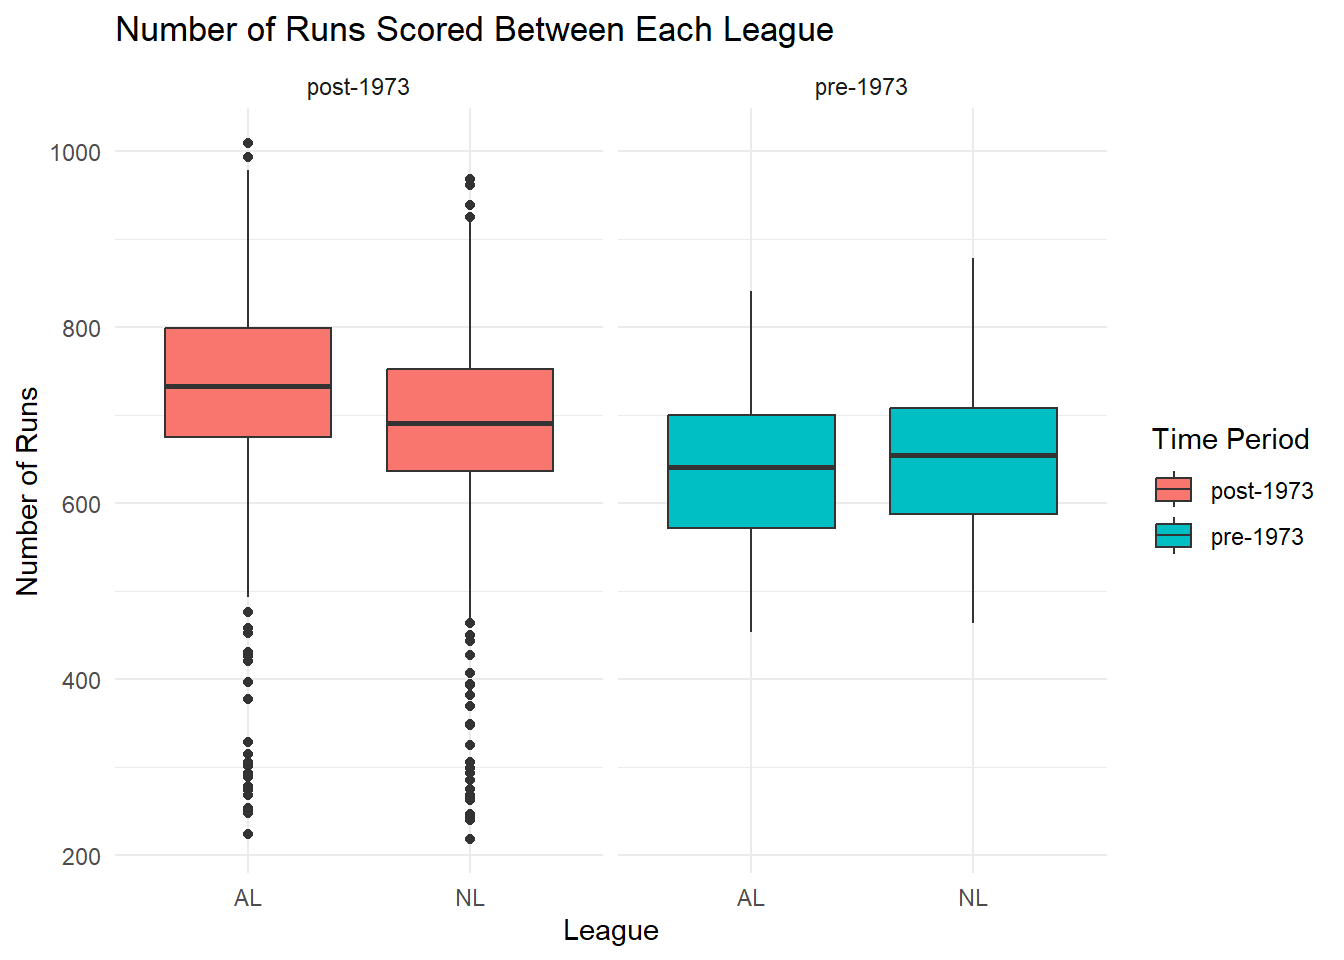
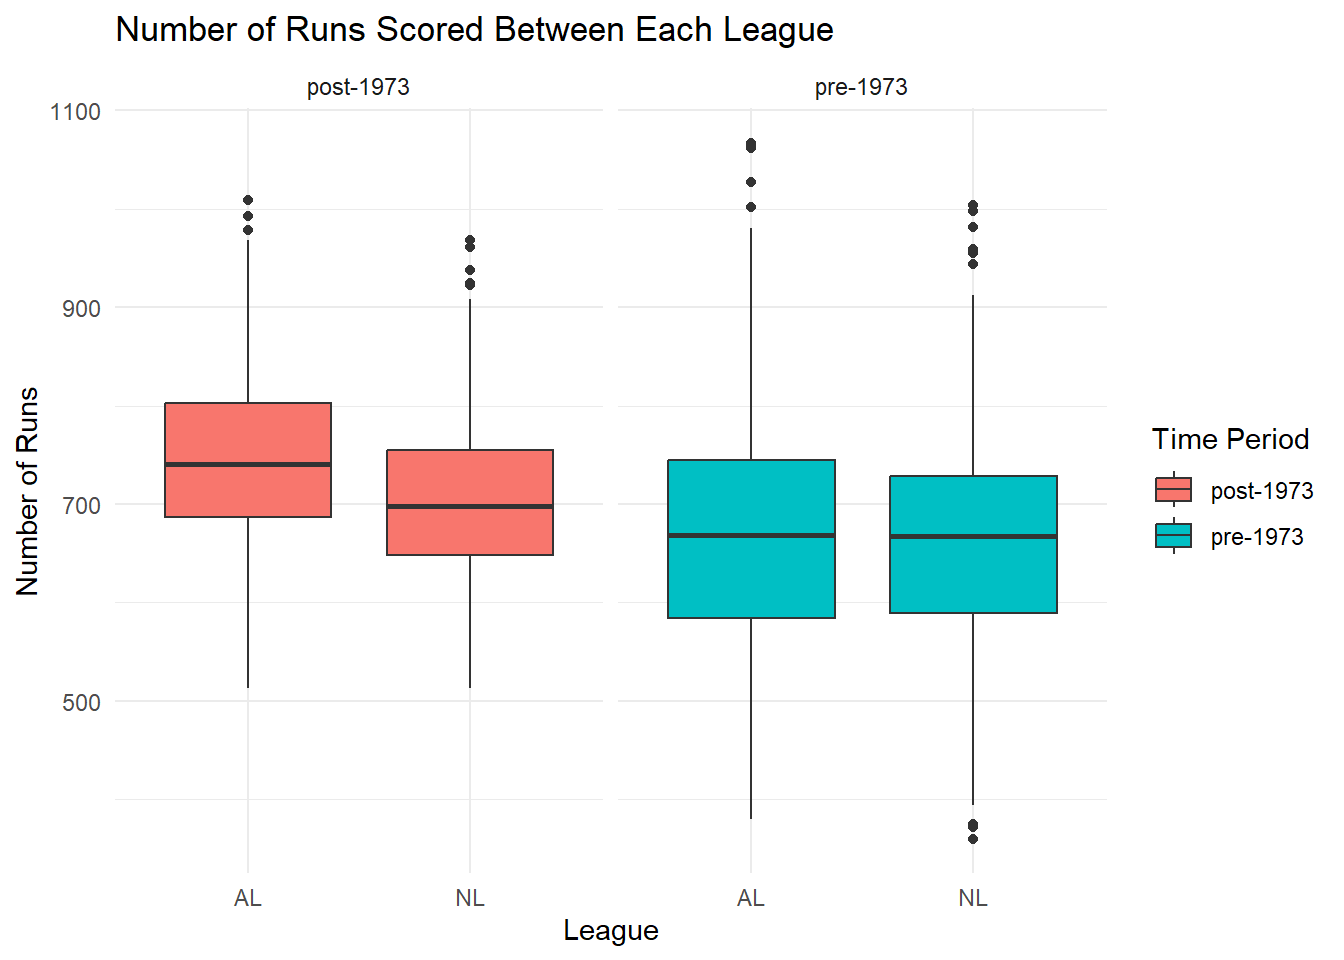
Blog Post Fixed

diff --git a/docs/posts/Final Project/Index.html b/docs/posts/Final Project/Index.html
@@ -286,9 +286,9 @@ dbl (33): year, rank, games_played, home_games, wins, losses, runs_scored, a...
 </div>
 <p><em>In this graph, number of runs scored started to increase in 1910s. The trend line shows that after 1920 the slope of the line did increase and runs scored overall continued to increases until leveling off. This shows the effects of the rule change where not allowing foregien substances on the baseball helped teams score more runs because it was easier for batters to hit the ball.</em></p>
 <p>##Rule Change #2: The Introduction of a Designated Hitter</p>
-<p><em>One pivotal change that occurred in 1973 was when the American League introduced a designated hitter. Pitchers were generally not very good hitters so to help the offense and make the more games interesting for fans, a designated hitter (DH) bats in place of the pitcher. The National League did not make this change therefore created a huge difference between the leagues. Even though both leagues will still have the same amount of hitters/players the AL had more runs and more home runs than the NL because a better hitter in the AL can hit instead of the pitcher fir the NL.</em></p>
+<p><em>One pivotal change that occurred in 1973 was when the American League introduced a designated hitter. Pitchers were generally not very good hitters so to help the offense and make the more games interesting for fans, a designated hitter (DH) bats in place of the pitcher. The National League did not make this change therefore created a huge difference between the leagues. Even though both leagues will still have the same amount of hitters/players the AL had more runs and more home runs than the NL because a better hitter in the AL can hit instead of the pitcher fir the NL. The year 1994, 1981, and 2020 data has been removed since in those years there were significantly less games played because of strikes and the pandemic. They were removed because since all the years are of interest in this plot, they could affect the data.</em></p>
 <div class="cell">
-<div class="sourceCode cell-code" id="cb10"><pre class="sourceCode r code-with-copy"><code class="sourceCode r"><span id="cb10-1"><a href="#cb10-1" aria-hidden="true" tabindex="-1"></a>designated_hitter <span class="ot">&lt;-</span> Baseball <span class="sc">|&gt;</span> <span class="fu">filter</span>(year <span class="sc">&gt;=</span> <span class="st">"1961"</span>) <span class="sc">|&gt;</span></span>
+<div class="sourceCode cell-code" id="cb10"><pre class="sourceCode r code-with-copy"><code class="sourceCode r"><span id="cb10-1"><a href="#cb10-1" aria-hidden="true" tabindex="-1"></a>designated_hitter <span class="ot">&lt;-</span> Baseball <span class="sc">|&gt;</span> <span class="fu">filter</span>(<span class="sc">!</span>year <span class="sc">%in%</span> <span class="fu">c</span>(<span class="dv">1981</span>, <span class="dv">1994</span>, <span class="dv">2020</span>)) <span class="sc">|&gt;</span></span>
 <span id="cb10-2"><a href="#cb10-2" aria-hidden="true" tabindex="-1"></a>  <span class="fu">mutate</span>(<span class="at">period =</span> <span class="fu">if_else</span>(year <span class="sc">&lt;</span> <span class="dv">1973</span>, <span class="st">"pre-1973"</span>, <span class="st">"post-1973"</span>))</span>
 <span id="cb10-3"><a href="#cb10-3" aria-hidden="true" tabindex="-1"></a></span>
 <span id="cb10-4"><a href="#cb10-4" aria-hidden="true" tabindex="-1"></a><span class="fu">ggplot</span>(<span class="at">data =</span> designated_hitter, <span class="fu">aes</span>(<span class="at">x =</span> league_id, <span class="at">y =</span> runs_scored, <span class="at">fill =</span> period)) <span class="sc">+</span></span>
@@ -373,8 +373,8 @@ Attaching package: 'plotly'</code></pre>
 </div>
 <div class="sourceCode cell-code" id="cb18"><pre class="sourceCode r code-with-copy"><code class="sourceCode r"><span id="cb18-1"><a href="#cb18-1" aria-hidden="true" tabindex="-1"></a><span class="fu">ggplotly</span>(baseballplot, <span class="at">tooltip =</span> <span class="st">"text"</span>)</span></code><button title="Copy to Clipboard" class="code-copy-button"><i class="bi"></i></button></pre></div>
 <div class="cell-output-display">
-<div class="plotly html-widget html-fill-item" id="htmlwidget-85f9ab6e9ec151652c60" style="width:100%;height:464px;"></div>
-<script type="application/json" data-for="htmlwidget-85f9ab6e9ec151652c60">{"x":{"data":[{"x":[1903,1904,1905,1906,1907,1908,1909,1910,1911,1912,1913,1914,1915,1916,1917,1918,1919,1920,1921,1922,1923,1924,1925,1926,1927,1928,1929,1930,1931,1932,1933,1934,1935,1936,1937,1938,1939,1940,1941,1942,1943,1944,1945,1946,1947,1948,1949,1950,1951,1952,1953,1954,1955,1956,1957,1958,1959,1960,1961,1962,1963,1964,1965,1966,1967,1968,1969,1970,1971,1972,1973,1974,1975,1976,1977,1978,1979,1980,1981,1982,1983,1984,1985,1986,1987,1988,1989,1990,1991,1992,1993,1994,1995,1996,1997,1998,1999,2000,2001,2002,2003,2004,2005,2006,2007,2008,2009,2010,2011,2012,2013,2014,2015,2016,2017,2018,2019,2020],"y":[7966,9303,9569,9098,8696,9110,9355,9698,9885,9786,9459,9838,9586,9525,8641,5875,6871,7269,6962,6935,7007,6624,6689,6815,6895,7094,7038,7930,7908,7858,7437,8429,8016,8233,8995,8342,8518,9056,8836,8334,8565,8183,8050,9702,9162,9035,8956,9565,9341,10394,10218,10215,10824,11507,11964,12229,12606,12817,14952,17567,18773,19212,19283,18805,19413,19143,22473,22374,20956,20718,20358,19495,19280,18745,21722,20058,20035,20212,13237,21221,21716,22500,22451,24706,25099,23355,23650,23853,24390,23538,26310,19766,25425,29308,29937,31893,31119,31356,32404,31394,30801,31828,30644,31655,32189,32884,33591,34306,34488,36426,36710,37441,37446,38982,40104,41207,42823,15586],"text":["Season: 1903 Strikeouts: 7966","Season: 1904 Strikeouts: 9303","Season: 1905 Strikeouts: 9569","Season: 1906 Strikeouts: 9098","Season: 1907 Strikeouts: 8696","Season: 1908 Strikeouts: 9110","Season: 1909 Strikeouts: 9355","Season: 1910 Strikeouts: 9698","Season: 1911 Strikeouts: 9885","Season: 1912 Strikeouts: 9786","Season: 1913 Strikeouts: 9459","Season: 1914 Strikeouts: 9838","Season: 1915 Strikeouts: 9586","Season: 1916 Strikeouts: 9525","Season: 1917 Strikeouts: 8641","Season: 1918 Strikeouts: 5875","Season: 1919 Strikeouts: 6871","Season: 1920 Strikeouts: 7269","Season: 1921 Strikeouts: 6962","Season: 1922 Strikeouts: 6935","Season: 1923 Strikeouts: 7007","Season: 1924 Strikeouts: 6624","Season: 1925 Strikeouts: 6689","Season: 1926 Strikeouts: 6815","Season: 1927 Strikeouts: 6895","Season: 1928 Strikeouts: 7094","Season: 1929 Strikeouts: 7038","Season: 1930 Strikeouts: 7930","Season: 1931 Strikeouts: 7908","Season: 1932 Strikeouts: 7858","Season: 1933 Strikeouts: 7437","Season: 1934 Strikeouts: 8429","Season: 1935 Strikeouts: 8016","Season: 1936 Strikeouts: 8233","Season: 1937 Strikeouts: 8995","Season: 1938 Strikeouts: 8342","Season: 1939 Strikeouts: 8518","Season: 1940 Strikeouts: 9056","Season: 1941 Strikeouts: 8836","Season: 1942 Strikeouts: 8334","Season: 1943 Strikeouts: 8565","Season: 1944 Strikeouts: 8183","Season: 1945 Strikeouts: 8050","Season: 1946 Strikeouts: 9702","Season: 1947 Strikeouts: 9162","Season: 1948 Strikeouts: 9035","Season: 1949 Strikeouts: 8956","Season: 1950 Strikeouts: 9565","Season: 1951 Strikeouts: 9341","Season: 1952 Strikeouts: 10394","Season: 1953 Strikeouts: 10218","Season: 1954 Strikeouts: 10215","Season: 1955 Strikeouts: 10824","Season: 1956 Strikeouts: 11507","Season: 1957 Strikeouts: 11964","Season: 1958 Strikeouts: 12229","Season: 1959 Strikeouts: 12606","Season: 1960 Strikeouts: 12817","Season: 1961 Strikeouts: 14952","Season: 1962 Strikeouts: 17567","Season: 1963 Strikeouts: 18773","Season: 1964 Strikeouts: 19212","Season: 1965 Strikeouts: 19283","Season: 1966 Strikeouts: 18805","Season: 1967 Strikeouts: 19413","Season: 1968 Strikeouts: 19143","Season: 1969 Strikeouts: 22473","Season: 1970 Strikeouts: 22374","Season: 1971 Strikeouts: 20956","Season: 1972 Strikeouts: 20718","Season: 1973 Strikeouts: 20358","Season: 1974 Strikeouts: 19495","Season: 1975 Strikeouts: 19280","Season: 1976 Strikeouts: 18745","Season: 1977 Strikeouts: 21722","Season: 1978 Strikeouts: 20058","Season: 1979 Strikeouts: 20035","Season: 1980 Strikeouts: 20212","Season: 1981 Strikeouts: 13237","Season: 1982 Strikeouts: 21221","Season: 1983 Strikeouts: 21716","Season: 1984 Strikeouts: 22500","Season: 1985 Strikeouts: 22451","Season: 1986 Strikeouts: 24706","Season: 1987 Strikeouts: 25099","Season: 1988 Strikeouts: 23355","Season: 1989 Strikeouts: 23650","Season: 1990 Strikeouts: 23853","Season: 1991 Strikeouts: 24390","Season: 1992 Strikeouts: 23538","Season: 1993 Strikeouts: 26310","Season: 1994 Strikeouts: 19766","Season: 1995 Strikeouts: 25425","Season: 1996 Strikeouts: 29308","Season: 1997 Strikeouts: 29937","Season: 1998 Strikeouts: 31893","Season: 1999 Strikeouts: 31119","Season: 2000 Strikeouts: 31356","Season: 2001 Strikeouts: 32404","Season: 2002 Strikeouts: 31394","Season: 2003 Strikeouts: 30801","Season: 2004 Strikeouts: 31828","Season: 2005 Strikeouts: 30644","Season: 2006 Strikeouts: 31655","Season: 2007 Strikeouts: 32189","Season: 2008 Strikeouts: 32884","Season: 2009 Strikeouts: 33591","Season: 2010 Strikeouts: 34306","Season: 2011 Strikeouts: 34488","Season: 2012 Strikeouts: 36426","Season: 2013 Strikeouts: 36710","Season: 2014 Strikeouts: 37441","Season: 2015 Strikeouts: 37446","Season: 2016 Strikeouts: 38982","Season: 2017 Strikeouts: 40104","Season: 2018 Strikeouts: 41207","Season: 2019 Strikeouts: 42823","Season: 2020 Strikeouts: 15586"],"type":"scatter","mode":"markers","marker":{"autocolorscale":false,"color":"rgba(0,0,0,1)","opacity":1,"size":5.6692913385826778,"symbol":"circle","line":{"width":1.8897637795275593,"color":"rgba(0,0,0,1)"}},"hoveron":"points","showlegend":false,"xaxis":"x","yaxis":"y","hoverinfo":"text","frame":null},{"x":[1963,1963],"y":[-2141.1500000000001,44964.150000000001],"text":"","type":"scatter","mode":"lines","line":{"width":1.8897637795275593,"color":"rgba(0,0,0,1)","dash":"solid"},"hoveron":"points","showlegend":false,"xaxis":"x","yaxis":"y","hoverinfo":"text","frame":null},{"x":[1969,1969],"y":[-2141.1500000000001,44964.150000000001],"text":"","type":"scatter","mode":"lines","line":{"width":1.8897637795275593,"color":"rgba(0,0,0,1)","dash":"solid"},"hoveron":"points","showlegend":false,"xaxis":"x","yaxis":"y","hoverinfo":"text","frame":null}],"layout":{"margin":{"t":40.840182648401829,"r":7.3059360730593621,"b":37.260273972602747,"l":54.794520547945211},"paper_bgcolor":"rgba(255,255,255,1)","font":{"color":"rgba(0,0,0,1)","family":"","size":14.611872146118724},"title":{"text":"Strikeouts by Pitchers per Year","font":{"color":"rgba(0,0,0,1)","family":"","size":17.534246575342465},"x":0,"xref":"paper"},"xaxis":{"domain":[0,1],"automargin":true,"type":"linear","autorange":false,"range":[1897.1500000000001,2025.8499999999999],"tickmode":"array","ticktext":["1900","1925","1950","1975","2000","2025"],"tickvals":[1900,1925,1950,1975,2000,2025],"categoryorder":"array","categoryarray":["1900","1925","1950","1975","2000","2025"],"nticks":null,"ticks":"","tickcolor":null,"ticklen":3.6529680365296811,"tickwidth":0,"showticklabels":true,"tickfont":{"color":"rgba(77,77,77,1)","family":"","size":11.68949771689498},"tickangle":-0,"showline":false,"linecolor":null,"linewidth":0,"showgrid":true,"gridcolor":"rgba(235,235,235,1)","gridwidth":0.66417600664176002,"zeroline":false,"anchor":"y","title":{"text":"Year","font":{"color":"rgba(0,0,0,1)","family":"","size":14.611872146118724}},"hoverformat":".2f"},"yaxis":{"domain":[0,1],"automargin":true,"type":"linear","autorange":false,"range":[-2141.1500000000001,44964.150000000001],"tickmode":"array","ticktext":["0","10000","20000","30000","40000"],"tickvals":[0,10000,20000,30000,40000],"categoryorder":"array","categoryarray":["0","10000","20000","30000","40000"],"nticks":null,"ticks":"","tickcolor":null,"ticklen":3.6529680365296811,"tickwidth":0,"showticklabels":true,"tickfont":{"color":"rgba(77,77,77,1)","family":"","size":11.68949771689498},"tickangle":-0,"showline":false,"linecolor":null,"linewidth":0,"showgrid":true,"gridcolor":"rgba(235,235,235,1)","gridwidth":0.66417600664176002,"zeroline":false,"anchor":"x","title":{"text":"Number of Strikeouts","font":{"color":"rgba(0,0,0,1)","family":"","size":14.611872146118724}},"hoverformat":".2f"},"shapes":[],"showlegend":false,"legend":{"bgcolor":null,"bordercolor":null,"borderwidth":0,"font":{"color":"rgba(0,0,0,1)","family":"","size":11.68949771689498}},"hovermode":"closest","barmode":"relative"},"config":{"doubleClick":"reset","modeBarButtonsToAdd":["hoverclosest","hovercompare"],"showSendToCloud":false},"source":"A","attrs":{"397c542efdb":{"x":{},"y":{},"text":{},"type":"scatter"},"397c76c62c63":{"xintercept":{}},"397c63df2e22":{"xintercept":{}}},"cur_data":"397c542efdb","visdat":{"397c542efdb":["function (y) ","x"],"397c76c62c63":["function (y) ","x"],"397c63df2e22":["function (y) ","x"]},"highlight":{"on":"plotly_click","persistent":false,"dynamic":false,"selectize":false,"opacityDim":0.20000000000000001,"selected":{"opacity":1},"debounce":0},"shinyEvents":["plotly_hover","plotly_click","plotly_selected","plotly_relayout","plotly_brushed","plotly_brushing","plotly_clickannotation","plotly_doubleclick","plotly_deselect","plotly_afterplot","plotly_sunburstclick"],"base_url":"https://plot.ly"},"evals":[],"jsHooks":[]}</script>
+<div class="plotly html-widget html-fill-item" id="htmlwidget-49308d2a057f7e8a3bcf" style="width:100%;height:464px;"></div>
+<script type="application/json" data-for="htmlwidget-49308d2a057f7e8a3bcf">{"x":{"data":[{"x":[1903,1904,1905,1906,1907,1908,1909,1910,1911,1912,1913,1914,1915,1916,1917,1918,1919,1920,1921,1922,1923,1924,1925,1926,1927,1928,1929,1930,1931,1932,1933,1934,1935,1936,1937,1938,1939,1940,1941,1942,1943,1944,1945,1946,1947,1948,1949,1950,1951,1952,1953,1954,1955,1956,1957,1958,1959,1960,1961,1962,1963,1964,1965,1966,1967,1968,1969,1970,1971,1972,1973,1974,1975,1976,1977,1978,1979,1980,1981,1982,1983,1984,1985,1986,1987,1988,1989,1990,1991,1992,1993,1994,1995,1996,1997,1998,1999,2000,2001,2002,2003,2004,2005,2006,2007,2008,2009,2010,2011,2012,2013,2014,2015,2016,2017,2018,2019,2020],"y":[7966,9303,9569,9098,8696,9110,9355,9698,9885,9786,9459,9838,9586,9525,8641,5875,6871,7269,6962,6935,7007,6624,6689,6815,6895,7094,7038,7930,7908,7858,7437,8429,8016,8233,8995,8342,8518,9056,8836,8334,8565,8183,8050,9702,9162,9035,8956,9565,9341,10394,10218,10215,10824,11507,11964,12229,12606,12817,14952,17567,18773,19212,19283,18805,19413,19143,22473,22374,20956,20718,20358,19495,19280,18745,21722,20058,20035,20212,13237,21221,21716,22500,22451,24706,25099,23355,23650,23853,24390,23538,26310,19766,25425,29308,29937,31893,31119,31356,32404,31394,30801,31828,30644,31655,32189,32884,33591,34306,34488,36426,36710,37441,37446,38982,40104,41207,42823,15586],"text":["Season: 1903 Strikeouts: 7966","Season: 1904 Strikeouts: 9303","Season: 1905 Strikeouts: 9569","Season: 1906 Strikeouts: 9098","Season: 1907 Strikeouts: 8696","Season: 1908 Strikeouts: 9110","Season: 1909 Strikeouts: 9355","Season: 1910 Strikeouts: 9698","Season: 1911 Strikeouts: 9885","Season: 1912 Strikeouts: 9786","Season: 1913 Strikeouts: 9459","Season: 1914 Strikeouts: 9838","Season: 1915 Strikeouts: 9586","Season: 1916 Strikeouts: 9525","Season: 1917 Strikeouts: 8641","Season: 1918 Strikeouts: 5875","Season: 1919 Strikeouts: 6871","Season: 1920 Strikeouts: 7269","Season: 1921 Strikeouts: 6962","Season: 1922 Strikeouts: 6935","Season: 1923 Strikeouts: 7007","Season: 1924 Strikeouts: 6624","Season: 1925 Strikeouts: 6689","Season: 1926 Strikeouts: 6815","Season: 1927 Strikeouts: 6895","Season: 1928 Strikeouts: 7094","Season: 1929 Strikeouts: 7038","Season: 1930 Strikeouts: 7930","Season: 1931 Strikeouts: 7908","Season: 1932 Strikeouts: 7858","Season: 1933 Strikeouts: 7437","Season: 1934 Strikeouts: 8429","Season: 1935 Strikeouts: 8016","Season: 1936 Strikeouts: 8233","Season: 1937 Strikeouts: 8995","Season: 1938 Strikeouts: 8342","Season: 1939 Strikeouts: 8518","Season: 1940 Strikeouts: 9056","Season: 1941 Strikeouts: 8836","Season: 1942 Strikeouts: 8334","Season: 1943 Strikeouts: 8565","Season: 1944 Strikeouts: 8183","Season: 1945 Strikeouts: 8050","Season: 1946 Strikeouts: 9702","Season: 1947 Strikeouts: 9162","Season: 1948 Strikeouts: 9035","Season: 1949 Strikeouts: 8956","Season: 1950 Strikeouts: 9565","Season: 1951 Strikeouts: 9341","Season: 1952 Strikeouts: 10394","Season: 1953 Strikeouts: 10218","Season: 1954 Strikeouts: 10215","Season: 1955 Strikeouts: 10824","Season: 1956 Strikeouts: 11507","Season: 1957 Strikeouts: 11964","Season: 1958 Strikeouts: 12229","Season: 1959 Strikeouts: 12606","Season: 1960 Strikeouts: 12817","Season: 1961 Strikeouts: 14952","Season: 1962 Strikeouts: 17567","Season: 1963 Strikeouts: 18773","Season: 1964 Strikeouts: 19212","Season: 1965 Strikeouts: 19283","Season: 1966 Strikeouts: 18805","Season: 1967 Strikeouts: 19413","Season: 1968 Strikeouts: 19143","Season: 1969 Strikeouts: 22473","Season: 1970 Strikeouts: 22374","Season: 1971 Strikeouts: 20956","Season: 1972 Strikeouts: 20718","Season: 1973 Strikeouts: 20358","Season: 1974 Strikeouts: 19495","Season: 1975 Strikeouts: 19280","Season: 1976 Strikeouts: 18745","Season: 1977 Strikeouts: 21722","Season: 1978 Strikeouts: 20058","Season: 1979 Strikeouts: 20035","Season: 1980 Strikeouts: 20212","Season: 1981 Strikeouts: 13237","Season: 1982 Strikeouts: 21221","Season: 1983 Strikeouts: 21716","Season: 1984 Strikeouts: 22500","Season: 1985 Strikeouts: 22451","Season: 1986 Strikeouts: 24706","Season: 1987 Strikeouts: 25099","Season: 1988 Strikeouts: 23355","Season: 1989 Strikeouts: 23650","Season: 1990 Strikeouts: 23853","Season: 1991 Strikeouts: 24390","Season: 1992 Strikeouts: 23538","Season: 1993 Strikeouts: 26310","Season: 1994 Strikeouts: 19766","Season: 1995 Strikeouts: 25425","Season: 1996 Strikeouts: 29308","Season: 1997 Strikeouts: 29937","Season: 1998 Strikeouts: 31893","Season: 1999 Strikeouts: 31119","Season: 2000 Strikeouts: 31356","Season: 2001 Strikeouts: 32404","Season: 2002 Strikeouts: 31394","Season: 2003 Strikeouts: 30801","Season: 2004 Strikeouts: 31828","Season: 2005 Strikeouts: 30644","Season: 2006 Strikeouts: 31655","Season: 2007 Strikeouts: 32189","Season: 2008 Strikeouts: 32884","Season: 2009 Strikeouts: 33591","Season: 2010 Strikeouts: 34306","Season: 2011 Strikeouts: 34488","Season: 2012 Strikeouts: 36426","Season: 2013 Strikeouts: 36710","Season: 2014 Strikeouts: 37441","Season: 2015 Strikeouts: 37446","Season: 2016 Strikeouts: 38982","Season: 2017 Strikeouts: 40104","Season: 2018 Strikeouts: 41207","Season: 2019 Strikeouts: 42823","Season: 2020 Strikeouts: 15586"],"type":"scatter","mode":"markers","marker":{"autocolorscale":false,"color":"rgba(0,0,0,1)","opacity":1,"size":5.6692913385826778,"symbol":"circle","line":{"width":1.8897637795275593,"color":"rgba(0,0,0,1)"}},"hoveron":"points","showlegend":false,"xaxis":"x","yaxis":"y","hoverinfo":"text","frame":null},{"x":[1963,1963],"y":[-2141.1500000000001,44964.150000000001],"text":"","type":"scatter","mode":"lines","line":{"width":1.8897637795275593,"color":"rgba(0,0,0,1)","dash":"solid"},"hoveron":"points","showlegend":false,"xaxis":"x","yaxis":"y","hoverinfo":"text","frame":null},{"x":[1969,1969],"y":[-2141.1500000000001,44964.150000000001],"text":"","type":"scatter","mode":"lines","line":{"width":1.8897637795275593,"color":"rgba(0,0,0,1)","dash":"solid"},"hoveron":"points","showlegend":false,"xaxis":"x","yaxis":"y","hoverinfo":"text","frame":null}],"layout":{"margin":{"t":40.840182648401829,"r":7.3059360730593621,"b":37.260273972602747,"l":54.794520547945211},"paper_bgcolor":"rgba(255,255,255,1)","font":{"color":"rgba(0,0,0,1)","family":"","size":14.611872146118724},"title":{"text":"Strikeouts by Pitchers per Year","font":{"color":"rgba(0,0,0,1)","family":"","size":17.534246575342465},"x":0,"xref":"paper"},"xaxis":{"domain":[0,1],"automargin":true,"type":"linear","autorange":false,"range":[1897.1500000000001,2025.8499999999999],"tickmode":"array","ticktext":["1900","1925","1950","1975","2000","2025"],"tickvals":[1900,1925,1950,1975,2000,2025],"categoryorder":"array","categoryarray":["1900","1925","1950","1975","2000","2025"],"nticks":null,"ticks":"","tickcolor":null,"ticklen":3.6529680365296811,"tickwidth":0,"showticklabels":true,"tickfont":{"color":"rgba(77,77,77,1)","family":"","size":11.68949771689498},"tickangle":-0,"showline":false,"linecolor":null,"linewidth":0,"showgrid":true,"gridcolor":"rgba(235,235,235,1)","gridwidth":0.66417600664176002,"zeroline":false,"anchor":"y","title":{"text":"Year","font":{"color":"rgba(0,0,0,1)","family":"","size":14.611872146118724}},"hoverformat":".2f"},"yaxis":{"domain":[0,1],"automargin":true,"type":"linear","autorange":false,"range":[-2141.1500000000001,44964.150000000001],"tickmode":"array","ticktext":["0","10000","20000","30000","40000"],"tickvals":[0,10000,20000,30000,40000],"categoryorder":"array","categoryarray":["0","10000","20000","30000","40000"],"nticks":null,"ticks":"","tickcolor":null,"ticklen":3.6529680365296811,"tickwidth":0,"showticklabels":true,"tickfont":{"color":"rgba(77,77,77,1)","family":"","size":11.68949771689498},"tickangle":-0,"showline":false,"linecolor":null,"linewidth":0,"showgrid":true,"gridcolor":"rgba(235,235,235,1)","gridwidth":0.66417600664176002,"zeroline":false,"anchor":"x","title":{"text":"Number of Strikeouts","font":{"color":"rgba(0,0,0,1)","family":"","size":14.611872146118724}},"hoverformat":".2f"},"shapes":[],"showlegend":false,"legend":{"bgcolor":null,"bordercolor":null,"borderwidth":0,"font":{"color":"rgba(0,0,0,1)","family":"","size":11.68949771689498}},"hovermode":"closest","barmode":"relative"},"config":{"doubleClick":"reset","modeBarButtonsToAdd":["hoverclosest","hovercompare"],"showSendToCloud":false},"source":"A","attrs":{"8e584bdb7ca7":{"x":{},"y":{},"text":{},"type":"scatter"},"8e585afa4dca":{"xintercept":{}},"8e586c2cc04":{"xintercept":{}}},"cur_data":"8e584bdb7ca7","visdat":{"8e584bdb7ca7":["function (y) ","x"],"8e585afa4dca":["function (y) ","x"],"8e586c2cc04":["function (y) ","x"]},"highlight":{"on":"plotly_click","persistent":false,"dynamic":false,"selectize":false,"opacityDim":0.20000000000000001,"selected":{"opacity":1},"debounce":0},"shinyEvents":["plotly_hover","plotly_click","plotly_selected","plotly_relayout","plotly_brushed","plotly_brushing","plotly_clickannotation","plotly_doubleclick","plotly_deselect","plotly_afterplot","plotly_sunburstclick"],"base_url":"https://plot.ly"},"evals":[],"jsHooks":[]}</script>
 </div>
 </div>
 <p><em>This plotly graph allows users to look at the total strikeouts by pitchers in the specific year by hovering over the graph. The vertical lines indicate the years the strike zone changed. In general, strikeouts have continued to increase over the years suggesting that pitchers have gotten a lot better over time.</em></p>

diff --git a/docs/index.html b/docs/index.html
@@ -201,7 +201,7 @@ window.Quarto = {
 
 <div class="quarto-listing quarto-listing-container-default" id="listing-listing">
 <div class="list quarto-listing-default">
-<div class="quarto-post image-right" data-index="0" data-listing-date-sort="1777867200000" data-listing-file-modified-sort="1777560748066" data-listing-date-modified-sort="NaN" data-listing-reading-time-sort="8" data-listing-word-count-sort="1414">
+<div class="quarto-post image-right" data-index="0" data-listing-date-sort="1777867200000" data-listing-file-modified-sort="1777565369896" data-listing-date-modified-sort="NaN" data-listing-reading-time-sort="8" data-listing-word-count-sort="1461">
 <div class="thumbnail"><a href="./posts/Final Project/Index.html" class="no-external">
 
 <img loading="lazy" src="./posts/Final Project/baseball_Image.webp" class="thumbnail-image">
